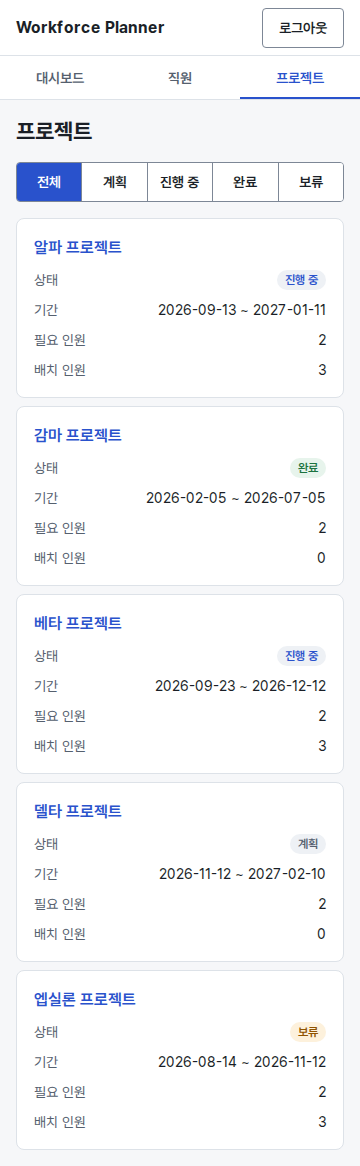
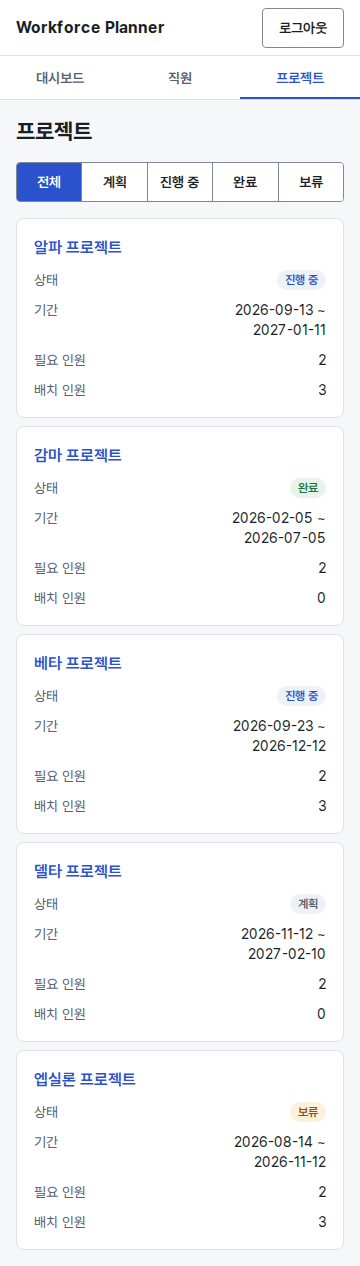
docs(T#15): evidence

diff --git a/docs/evidence/T15.md b/docs/evidence/T15.md
@@ -1,6 +1,6 @@
 # T#15 증거
 
-- 스냅샷(검사한 커밋): `a6e04d5eee023f45979596ead8d1b6edaba9d7e7` (`origin/main` `abb8565`을 `t15`에 합친 병합 커밋. 이 태스크의 코드 커밋은 `94d6ed758c72e623c8eb02352b0e2e7021b001ac` `feat(T#15): project list screen with status filter, badges and the three states`)
+- 스냅샷(검사한 커밋): `41bcdb941e19f5dee9c32cd129c2d31b0529a05f` (`feat(T#15): put the end date of the period on the next line in cards`, REVISE 1의 수정). 앞선 커밋: 병합 커밋 `a6e04d5eee023f45979596ead8d1b6edaba9d7e7`(`origin/main` `abb8565`을 `t15`에 합침), 첫 코드 커밋 `94d6ed758c72e623c8eb02352b0e2e7021b001ac` `feat(T#15): project list screen with status filter, badges and the three states`.
 - base: `abb856508283012883520d764b17d966f6d1ef67` (origin/main, T#8 병합 `feat(T#8): employee list, detail, register, update, and status-change APIs (#30)`). 처음 구현은 base `2e69ff6cb07656dd821bf46daaab36bc5ee4285e`에서 했고, PM의 "main 이동" 알림(`2e69ff6` → `abb8565`)에 따라 `origin/main`을 합친 뒤 모든 검사를 다시 돌렸다. 합친 변경은 백엔드와 문서뿐이고 프런트엔드 파일은 바뀌지 않았다.
 - implemented by: Claude Code, claude-sonnet-5-5
 - 환경: Linux 6.18.33.2-microsoft-standard-WSL2 (WSL2), Node 24.21.0, npm 11.19.0 (nvm), OpenJDK 21.0.12.1, Maven 3.10.0 (wrapper), Playwright 1.64.0 (Chromium headless shell 156.0.8078.4)
@@ -27,7 +27,7 @@
 
 회귀 검사의 baseline: 모두 base(`2e69ff6`)에서도 통과한다. 레드 실행(아래)에서 base 위에 스텁과 새 테스트만 얹은 상태로 돌렸을 때 기존 `DataTable` 테스트 3개가 통과했고(`Tests 22 failed | 3 passed`의 통과분), 나머지는 T#4·T#6·T#12·T#25·T#9의 증거가 base 통과를 기록했다.
 
-## 그린 (마지막 변경 뒤, 스냅샷 `a6e04d5`에서)
+## 그린 (마지막 변경 뒤, 스냅샷 `41bcdb9`에서)
 
 | 명령 | 종료 코드 | 출력 끝 |
 |---|---|---|
@@ -35,21 +35,21 @@
 | `npm --prefix frontend run build` (make build 2) | 0 | `✓ built` |
 | `./backend/mvnw -f backend/pom.xml test` (make test 1) | 0 | `Tests run: 166, Failures: 0, Errors: 0, Skipped: 0` (T#8의 새 테스트 포함) |
 | `npm --prefix frontend run test` (make test 2) | 0 | `Test Files 16 passed (16)`, `Tests 79 passed (79)` (새 25개 포함, 새 22개 + 기존 DataTable 3개) |
-| `npm --prefix frontend run test:e2e` (make test 3) | 0 | `39 passed (40.0s)` (T#4 7, T#6 18, T#12 3, T#15 11) |
+| `npm --prefix frontend run test:e2e` (make test 3) | 0 | `39 passed (40.0s)` (T#4 7, T#6 18, T#12 3, T#15 11; 바뀐 `projects.spec.ts` 포함) |
 | `./backend/mvnw -f backend/pom.xml checkstyle:check` (make lint 1) | 0 | `You have 0 Checkstyle violations.` |
 | `npm --prefix frontend run lint` (make lint 2) | 0 | (오류 없음) |
 
 ## 기준 10: 스크린샷
 
-- 명령: `scripts/e2e-servers.sh -- npm --prefix frontend run screenshots -- e2e/screens/T15.spec.ts` → 종료 코드 0, `8 passed (3.6s)`. 스냅샷 `a6e04d5`의 코드로 다시 찍었고(병합 전 PNG와 바이트가 같아 `git`에 변경이 없다), 처음 `94d6ed7`에서도 같은 결과였다.
-- PNG(`docs/screens/T15/`, 병합 뒤 다시 찍은 결과도 같다): `list-1280.png`(41,392 bytes), `list-360.png`(49,404), `empty-1280.png`(24,266), `empty-360.png`(19,628), `no-results-1280.png`(26,850), `no-results-360.png`(22,134), `error-1280.png`(24,527), `error-360.png`(19,957). 같은 스펙을 세 번 연속 돌려 모두 통과했다.
-- 서버 정리: `.nexi-tmp/e2e-servers.pids`의 프로세스 그룹 `160210`, `160211` 모두 `kill -0 -- -<그룹>`이 실패(살아 있는 프로세스 없음), `curl http://localhost:18080/api/health`와 `http://localhost:14173/`이 모두 응답 없음.
+- 명령: `scripts/e2e-servers.sh -- npm --prefix frontend run screenshots -- e2e/screens/T15.spec.ts` → 종료 코드 0, `8 passed (3.8s)`. 스냅샷 `41bcdb9`의 코드로 다시 찍었다. `list-360.png`만 바뀌었고(기간이 두 줄), 나머지 7장은 바이트가 같다.
+- PNG(`docs/screens/T15/`): `list-1280.png`(41,392 bytes), `list-360.png`(50,547; REVISE 1 뒤), `empty-1280.png`(24,266), `empty-360.png`(19,628), `no-results-1280.png`(26,850), `no-results-360.png`(22,134), `error-1280.png`(24,527), `error-360.png`(19,957). 같은 스펙을 세 번 연속 돌려 모두 통과했다.
+- 서버 정리: `.nexi-tmp/e2e-servers.pids`의 프로세스 그룹 `172127`, `172128` 모두 `kill -0 -- -<그룹>`이 실패(살아 있는 프로세스 없음), `curl http://localhost:18080/api/health`와 `http://localhost:14173/`이 모두 응답 없음.
 - 이전 태스크의 PNG는 다시 찍지 않았다(이 태스크가 그 스크린샷 명령을 깨지 않았다).
-- 사람이 PNG를 본 메모: 1280px에서 필터 컨트롤이 480px 폭으로 왼쪽에 붙고 선택된 "전체"가 primary 색이며, 표 머리글 5개와 상태 배지(진행 중·완료·계획·보류)가 BRIEF 색으로 보이고 인원 두 열이 오른쪽에 맞는다. 360px에서는 필터 5개가 한 줄에 모두 보이고 표가 카드가 되어 프로젝트명이 제목, 나머지가 "라벨 — 값" 줄이다. 검색 결과 없음에는 필터 초기화 버튼이, 오류에는 경고 아이콘과 다시 시도 버튼이 있다. 시드 날짜는 e2e DB가 만들어진 날 기준이라 화면의 기간 값이 실행한 날과 다를 수 있다.
+- 사람이 PNG를 본 메모: 1280px에서 필터 컨트롤이 480px 폭으로 왼쪽에 붙고 선택된 "전체"가 primary 색이며, 표 머리글 5개와 상태 배지(진행 중·완료·계획·보류)가 BRIEF 색으로 보이고 인원 두 열이 오른쪽에 맞는다. 360px에서는 필터 5개가 한 줄에 모두 보이고 표가 카드가 되어 프로젝트명이 제목, 나머지가 "라벨 — 값" 줄이다. 기간은 첫 줄이 `2026-09-13 ~`로 끝나고 종료일이 다음 줄에 오른쪽 정렬로 온다. 검색 결과 없음에는 필터 초기화 버튼이, 오류에는 경고 아이콘과 다시 시도 버튼이 있다. 시드 날짜는 e2e DB가 만들어진 날 기준이라 화면의 기간 값이 실행한 날과 다를 수 있다.
 
 ## 구현 메모와 계약서와 다르게 읽은 곳
 
-- **기간 줄바꿈(기준 8).** 계약서는 "360px에서 기간 값은 `~` 뒤에서만 줄이 바뀐다(첫 줄의 끝이 `~`)"고 적었다. 실제 360px 카드에서는 값(`2026-09-13 ~ 2027-01-11`)이 한 줄에 들어가 줄이 바뀌지 않는다. 그래서 360px 테스트는 "첫 날짜와 `~`가 같은 줄"만 확인하고, 줄이 바뀌는 지점은 별도 테스트(`the period breaks only after the "~" once the value is too narrow…`)가 뷰포트를 340px부터 10px씩 줄여 처음 줄이 바뀌는 너비에서 `~`가 첫 줄에 있고 둘째 날짜가 다음 줄에서 시작함을 확인한다. 이 확인에서 날짜의 하이픈(`-`)이 줄바꿈 후보라 날짜가 중간에서 갈라지는 것을 발견했고, 날짜를 `white-space: nowrap`인 span으로 감싸고 기간 전체를 span 하나로 감쌌다(카드 셀이 flex 행이라 조각을 따로 두면 줄 안에서 이어지지 않는다).
+- **기간 줄바꿈(기준 8).** 카드(<1024px, `DataTable`과 같은 경계)에서는 종료일을 다음 줄에 둔다(첫 줄이 `~`로 끝남). 처음 구현은 360px 카드에서 값이 한 줄에 들어가 줄이 바뀌지 않았고, 이를 계약서 해석으로 갈음했던 것이 리뷰 REVISE 1이다. PM 결정("계약 기준 8 그대로 고친다")에 따라 `.project-list__date--end`를 `max-width: 1023px`에서 `display: block`으로 하고 기간을 오른쪽 정렬했다. 표(≥1024px)에서는 한 줄이다(1280px에서 확인; 1024px 표는 열이 좁아 `~` 뒤에서 줄이 바뀔 수 있다). 날짜는 `nowrap` span으로 감싸 하이픈에서 갈라지지 않는다(처음 구현에서 발견한 문제, 유지). 카드 셀이 flex 행이라 기간 전체를 span 하나로 감쌌다.
 - **e2e의 첫 단언.** 앱은 먼저 `GET /api/auth/me`를 부르고 그 뒤에 셸을 그리므로, 모든 e2e의 첫 단언(`status filters` 개수)은 셸의 내비게이션이 보인 뒤에 즉시 판정한다. 레드 기록(아래)은 이 대기를 넣기 전 형태로 만들었고, 대기를 넣은 뒤에도 같은 단언이 같은 이유(상태 필터가 없음)로 스텁 상태에서 실패한다(내비게이션은 `PlaceholderPage`에도 있다).
 - **하위 호환.** `DataTable`의 `render`는 선택 속성이고, 없는 열은 `String(row[key])` 그대로다(T#4 `DataTable.test.tsx`의 기존 3개 통과).
 - 필터와 요청: 필터를 바꾸면 이전 요청을 `AbortController`로 취소하고, 취소된 요청의 응답이 나중에 도착해도 화면을 바꾸지 않는다(`controller.signal.aborted` 확인).
@@ -79,3 +79,15 @@ base: `2e69ff6cb07656dd821bf46daaab36bc5ee4285e` (origin/main). 환경: Linux WS
 
 - 명령: `scripts/e2e-servers.sh -- npm --prefix frontend run screenshots -- e2e/screens/T15.spec.ts` (`make screenshots T=15`의 Makefile 줄과 같다)
 - 종료 코드 1, `8 failed`(list·empty·no-results·error를 1280·360px로 각각): `Error: status filters` / `Expected: 1` / `Received: 0`. `docs/screens/T15/` 폴더가 만들어지지 않았다(PNG 없음).
+
+## REVISE 1 (리뷰 `76a3a1d`, PM 결정 "계약 기준 8 그대로 고친다"): 360px 카드의 기간 줄바꿈
+
+리뷰 지적: 계약 기준 8은 360px 카드에서 종료일이 다음 줄에 오도록(첫 줄 끝이 `~`) 요구하는데 구현은 한 줄에 표시했고, 검사도 더 좁은 너비에서 대신 확인했다. 계약서는 바꾸지 않는다. 날짜를 하이픈에서 가르지 않는 처리는 유지한다.
+
+- 바꾼 검사(`frontend/e2e/projects.spec.ts`): ① `values from a fixed answer at 360px`가 360px에서 `lines.second > lines.tilde`(종료일이 `~` 다음 줄)를 직접 단언한다(1280px 표에서는 한 줄). ② `no sideways scroll…`이 1024px(표)와 1023px(카드)에서 `~`가 첫 날짜와 같은 줄에 있고 카드에서는 종료일이 다음 줄에 옴을 단언한다. ③ 340px부터 줄이던 옛 테스트를 `a date is never split, even in a very narrow card`(240px, 각 날짜가 한 상자·한 줄)로 바꿨다.
+- 레드(구현 전, base `abb8565` 위의 `19db7aa` 코드): `scripts/e2e-servers.sh -- npm --prefix frontend run e2e:run -- e2e/projects.spec.ts` → 종료 코드 1, `2 failed | 9 passed`.
+  - `values from a fixed answer at 360px`: `Error: the end date starts on the next line at 360px` / `Expected: > 326` / `Received: 326` (`expect(lines.second…).toBeGreaterThan(lines.tilde)`)
+  - `no sideways scroll for the list and the three states…`: `Error: 1023px: the end date is on the next line in a card` / `Expected: > 302` / `Received: 302`
+  - 새 `a date is never split…`(240px)은 구현 전에도 통과한다. 날짜를 `nowrap` span으로 감싼 처리(처음 구현)가 이미 하는 동작이라 `regression`으로 둔다(baseline: 위 실행, 종료 코드 1 중 통과분, base `19db7aa`).
+  - 처음에는 1024px(표)에서도 기간이 한 줄이어야 한다고 단언했다가 `Expected: 270 / Received: 290`으로 실패했다. 1024px 표는 본문이 740px이고 이름 열이 넓어 기간 열이 좁아 `~` 뒤에서 줄이 바뀌는 것이 BRIEF 5절("좁은 너비에서는 `~` 뒤에서 줄바꿈")대로의 동작이라, 계약서에 없는 요구였던 그 단언을 지우고 "`~`가 첫 날짜와 같은 줄"만 남겼다.
+- **그린(수정 뒤)**: 같은 `e2e/projects.spec.ts`를 수정 뒤 코드로 돌려 `11 passed`(종료 코드 0). `values from a fixed answer at 360px`는 종료일이 `~`보다 아래 줄에 있음을 직접 단언하고, `no sideways scroll…`은 1023px 카드에서 같은 것을, 1024px 표에서는 `~`가 첫 날짜와 같은 줄에 있음을 단언한다. 전체 그린 결과는 위 "그린" 표(스냅샷 `41bcdb9`)다.
